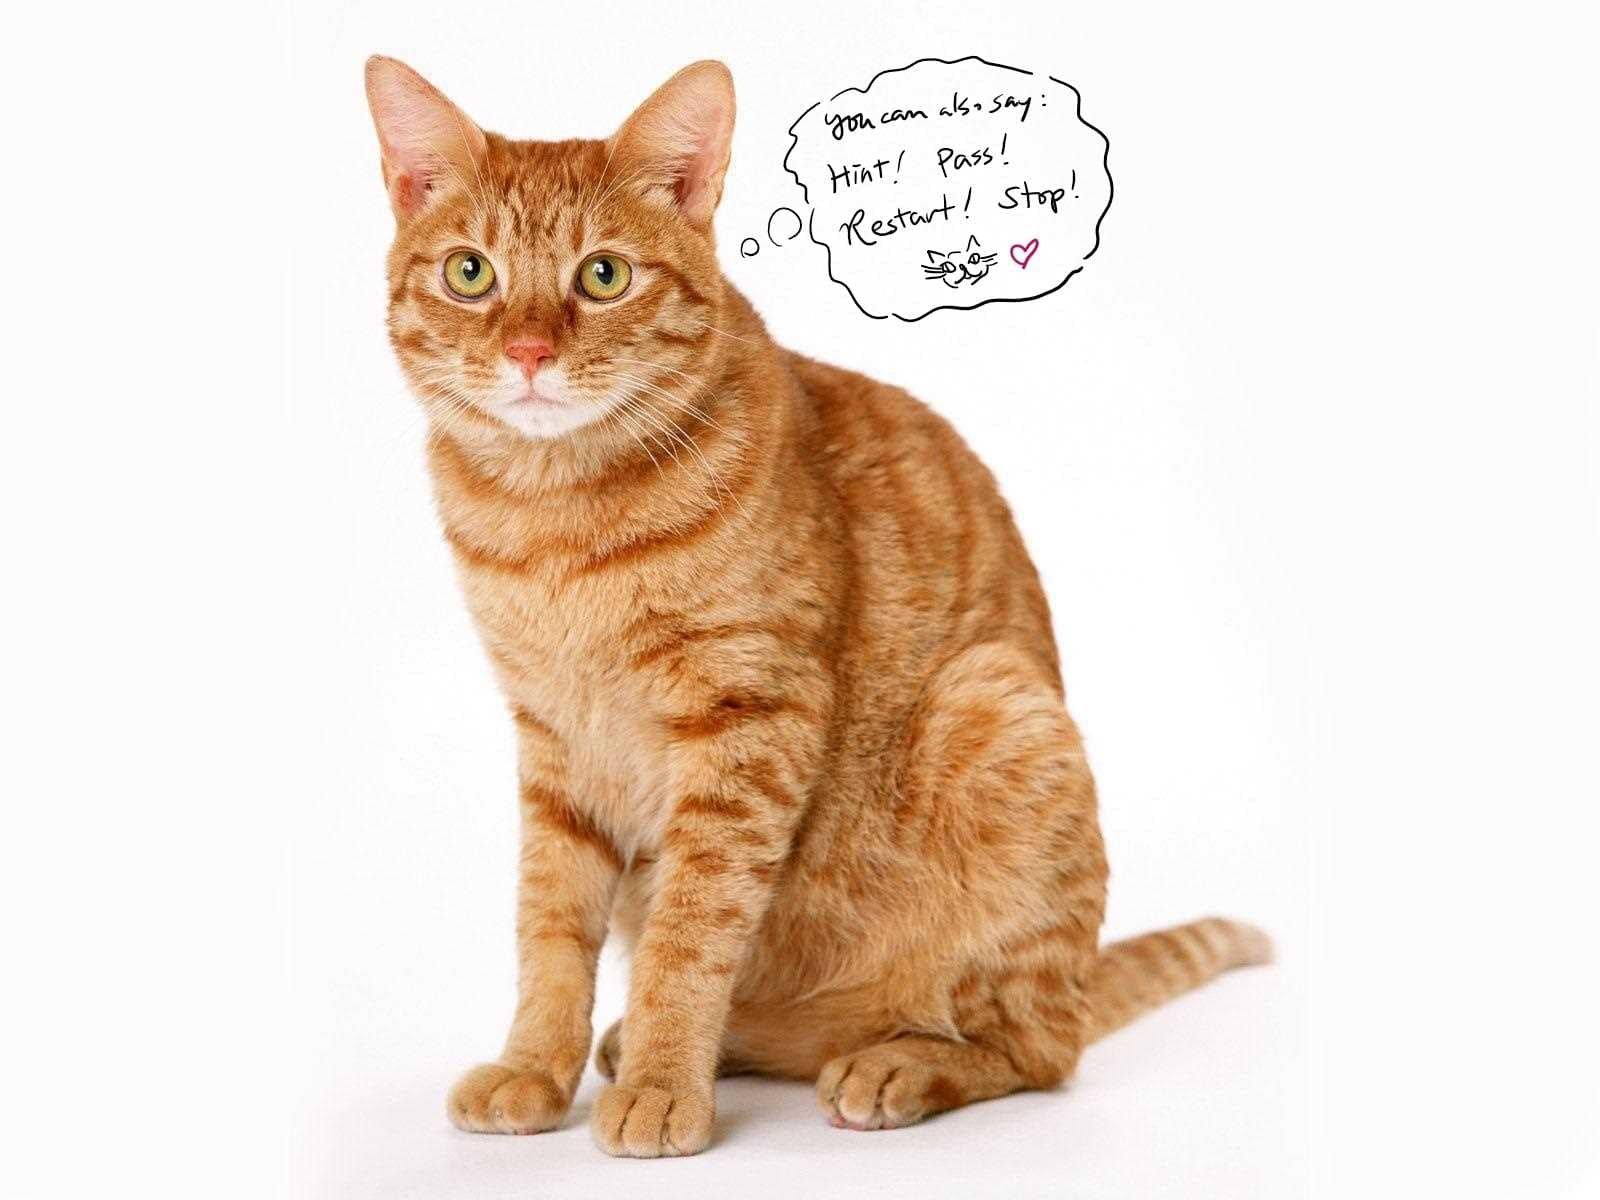
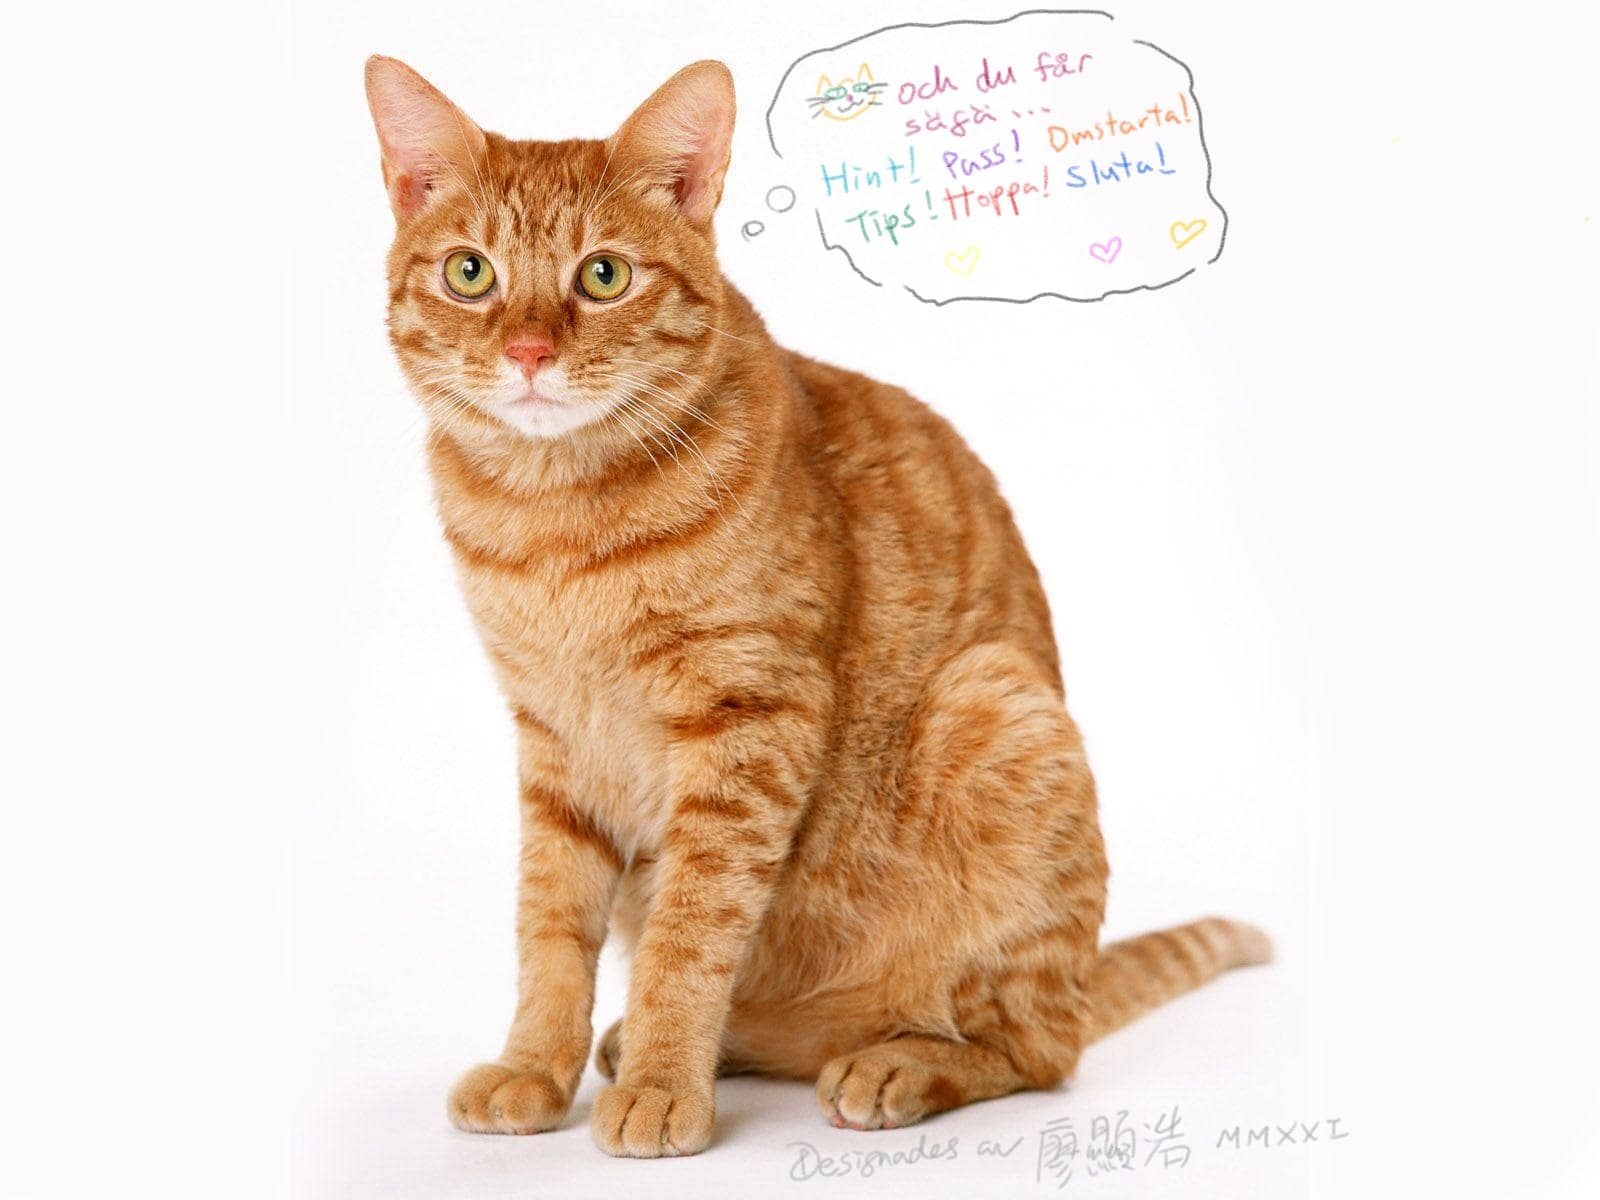
update questions

diff --git a/src/dmGame.ts b/src/dmGame.ts
@@ -75,9 +75,9 @@ const rememberLetter: Action<SDSContext, SDSEvent> = assign((context) => {
 //Say the current random letter and a 'spelling/phonetic' alphabet
 function letterNow(context:SDSContext){
     let alphabet:any = {
-        'a':'Adam', 'b':'Benedikt', 'c':'Cecilia', 'd':'Daniel', 'e':'Eva', 'f':'Francesca', 'g':'Gustav', 'h':'Håkan',
-        'i':'Ida', 'j':'Julia', 'k':'Klara', 'l':'Lotta', 'm':'Markus', 'n':'Natalie', 'o':'Oscar', 'p':'Paula',
-        'q':'Queen', 'r':'Rebecka', 's':'Sven', 't':'Tina', 'u':'Ulla', 'v':'Viktoria', 'w':'Wanda', 'x':'Xavier',
+        'a':'Amanda', 'b':'Benedikt', 'c':'Cecilia', 'd':'Daniel', 'e':'Emma', 'f':'Filippa', 'g':'Gustav', 'h':'Håkan',
+        'i':'Ida', 'j':'Julia', 'k':'Klara', 'l':'Lotta', 'm':'Markus', 'n':'Natalie', 'o':'Olof', 'p':'Paula',
+        'q':'Queen', 'r':'Rebecka', 's':'Sven', 't':'Therese', 'u':'Ulla', 'v':'Viktoria', 'w':'Wanda', 'x':'Xavier',
         'y':'Ylva', 'z':'Zara', 'å':'Åsa','ä':'Ängel', 'ö':'Örebro', 
         }
     let letter:string = context.letter
@@ -92,7 +92,7 @@ function questionNow(context:SDSContext){
 function giveHint(context:SDSContext){
     let answers = context.questions[0].answers //answers to the question at front of array
     let anAns = randomChoice(answers)
-    if (anAns.length >= 3) {
+    if (anAns.length >= 2) {
         let hint = anAns.slice(0, 3).toUpperCase() //first 3 letters
         return `Stavas med ${hint[0]}, ${hint[1]}, ${hint[2]}.`
     }
@@ -162,7 +162,7 @@ function sayKeyword(reply: string){
     let hint=["hint", "tips", "ledtråd", "hjälp"]
     let whatletter=['bokstav', 'upprepa']
     let stop=['stop', 'avsluta', 'sluta', 'stopp']
-    let restart=['starta om', 'börja om', 'starta igen']
+    let restart=['starta om', 'börja om', 'starta igen',"omstarta","börja igen"]
     let shortcut=['short cut', 'shortcut'] //for testing
 
     reply=reply.toLowerCase()
@@ -199,7 +199,7 @@ export const dmMachine: MachineConfig<SDSContext, any, SDSEvent> = ({
             on: { ENDSPEECH: { target:"chooseNewLetter" } } 
         },
         restart: {
-            entry: say("Okej, vi startar om!"),
+            entry: say("Okej, vi börjar om!"),
             on: { ENDSPEECH: {target:"chooseNewLetter" } } 
         },
         chooseNewLetter :{

diff --git a/src/game_codes/game.js b/src/game_codes/game.js
@@ -18,6 +18,18 @@ function shuffleArray(array) {
     }
     return array;
 }
+
+function getRandomSubarray(arr, size) {
+    var shuffled = arr.slice(0), i = arr.length, temp, index;
+    while (i--) {
+        index = Math.floor((i + 1) * Math.random());
+        temp = shuffled[index];
+        shuffled[index] = shuffled[i];
+        shuffled[i] = temp;
+    }
+    return shuffled.slice(0, size);
+}
+
 export function randomChoice(items) {
     let choice = items[items.length * Math.random() | 0];
     return choice;
@@ -43,8 +55,8 @@ export function makeNewQuestions( obj ) {
         //Filter answer/answers that start with letter
         candidate.answers = candidate.answers.filter( ans => ans[0]===letter); 
     });
-    let ques = shuffleArray(candidates); //shuffle the order
-    ques = ques.slice(0,11) //Only return max 10 ques to save memory?
+    let ques = getRandomSubarray(candidates, 10); //shuffle and sample 10 ques; if candidates.length<10, return a shuffled array
+    //Only return max 10 ques to save memory?
     return {letter, ques}; //returns an object with 2 properties  
 }
 

diff --git a/src/App.tsx b/src/App.tsx
@@ -274,7 +274,7 @@ export default function App() {
                     <YourSubtitles state={current}/> 
 
                     {/* Version B: FOR demo (on local cuz it cannot show on Github page) */}
-                    {/* <UserSubtitles state={current}/>  */}
+                    <UserSubtitles state={current}/> 
                 </div>
             
             </div>

diff --git a/src/styles.scss b/src/styles.scss
@@ -1,6 +1,6 @@
 .main{
   background: transparent  no-repeat center top fixed;
-  background-image: url("./catpic_withPrompts.jpg");
+  background-image: url("./catpic.jpg");
   background-size: auto 100%;
   display: flex;
   width: 100%;
